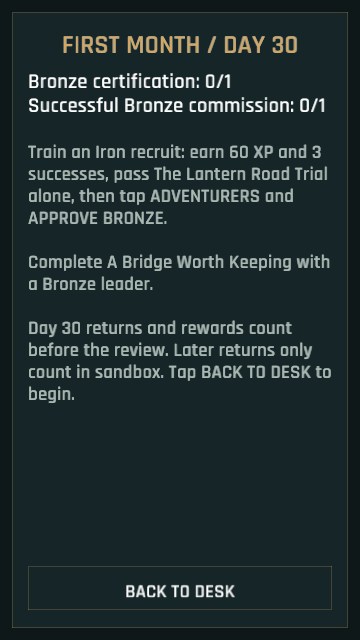
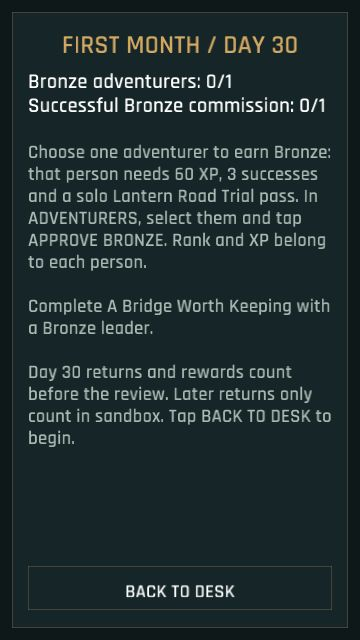
Each licence bears one adventurer's name (Phase 1 feedback and clarity)
The player reached the ending in about five minutes and understood the final
mission, but individual rank and optional services were unclear. Explain who
earns Bronze in the objectives, guidance and personal record. Label services
optional and compare infirmary recovery with ordinary rest.

Record the completed observation and keep the introductory target of one
Bronze adventurer and commission. The full demo's 30-45 minute target remains
unmet; later assignment and roster decisions must earn that extra playtime.

All 24 tests, clippy and the no-argument publisher pass. Published browser
checks at 360x640 verify the objective, record and optional-service layouts.

diff --git a/src/tutorial.rs b/src/tutorial.rs
@@ -48,14 +48,14 @@ impl Lesson {
 
     pub fn text(self, compact: bool) -> &'static str {
         match self {
-            Self::Welcome => "By day 30, certify one Bronze adventurer and complete A Bridge Worth Keeping. Day 30 returns count before head office reviews the branch.\n\nTap BACK TO DESK, then the D30 objective control to see your targets. MENU opens HELP whenever you need it.",
+            Self::Welcome => "By day 30, certify one Bronze adventurer and complete A Bridge Worth Keeping. Each adventurer earns their own rank and XP. Day 30 returns count before head office reviews the branch.\n\nTap BACK TO DESK, then the D30 objective control to see your targets. MENU opens HELP whenever you need it.",
             Self::Selection if compact => "Tap BACK TO DESK. Tap < or > to browse contracts, then CHOOSE PARTY. Tap adventurer names to select them. Selected names turn gold.\n\nStart with Mira Ashford on Cellar, Meet Sword. Matching classes help; injured or away staff cannot join.",
             Self::Selection => "Tap BACK TO DESK. Tap a contract in CONTRACT REGISTER, then tap adventurer names to select them. Selected names turn gold.\n\nStart with Mira Ashford on Cellar, Meet Sword. Matching classes help; injured or away staff cannot join.",
             Self::Dispatch => "Your party is selected. Check the readiness message, then tap BACK TO DESK and DISPATCH.\n\nDispatch sends the selected people away for the contract's listed duration. Work returning after day 30 cannot improve the review; it can finish in sandbox.",
             Self::Time => "The expedition is travelling. Tap BACK TO DESK, then NEXT DAY to advance one day. Repeat until the party returns.\n\nPeople staying at the guild rest while others travel. Returning expeditions receive their rewards before the day-30 review.",
             Self::Reports => "An expedition returned. Tap BACK TO DESK, then REPORTS to read what happened. Tap a NEW report to open it, then ALL REPORTS to read the next one.\n\nGold, experience and successful-contract credit are applied automatically. The report explains any medical leave.",
-            Self::Recovery => "Tap BACK TO DESK, then ADVENTURERS to inspect fatigue and medical leave. Leave tired or injured staff at home and tap NEXT DAY to recover.\n\nRest two days after a typical return. An injured adventurer cannot dispatch. GUILD SERVICES offers an infirmary once you can afford it.",
-            Self::Promotion => "Earn 60 XP and 3 successes, then pass The Lantern Road Trial with that candidate alone.\n\nTap BACK TO DESK, then ADVENTURERS, select the candidate and tap APPROVE BRONZE. Approval unlocks A Bridge Worth Keeping. Send a Bronze leader with support and return by day 30.",
+            Self::Recovery => "Tap BACK TO DESK, then ADVENTURERS to inspect fatigue and medical leave. Leave tired or injured staff at home and tap NEXT DAY to recover.\n\nRest two days after a typical return. An injured adventurer cannot dispatch. GUILD SERVICES offers optional faster recovery. No purchase is required for the review.",
+            Self::Promotion => "One adventurer must earn 60 XP and 3 successes, then pass The Lantern Road Trial alone. Their promotion changes only their own rank.\n\nTap BACK TO DESK, then ADVENTURERS, select the candidate and tap APPROVE BRONZE. Approval unlocks A Bridge Worth Keeping. Send a Bronze leader with support and return by day 30.",
             Self::Trial => "A candidate has 60 XP and 3 successes. Rest them at home with NEXT DAY until fatigue clears.\n\nTap BACK TO DESK, then CONTRACTS. Select The Lantern Road Trial, choose that candidate alone and tap DISPATCH. Tap NEXT DAY twice for the assessment. On compact screens, tap CHOOSE PARTY to select the candidate.",
         }
     }

diff --git a/src/ui/month.rs b/src/ui/month.rs
@@ -22,7 +22,7 @@ pub fn draw_month(g: &Game) -> Option<UiAction> {
         .map(|r| (r.certifications, r.commissions))
         .unwrap_or_else(|| g.guild.objective_counts(&g.contracts));
     paragraph(
-        &format!("Bronze certification: {certs}/1\nSuccessful Bronze commission: {commissions}/1"),
+        &format!("Bronze adventurers: {certs}/1\nSuccessful Bronze commission: {commissions}/1"),
         Rect::new(x + 16.0, y + 55.0, w - 32.0, 62.0),
         21.0,
         WHITE,
@@ -49,7 +49,7 @@ pub fn draw_month(g: &Game) -> Option<UiAction> {
             .join("\n");
         format!("{result}\n\nClosing treasury: {}g (opened with 80g; net {:+}g). Renown: {}.\n\n{careers}", r.gold, i64::from(r.gold) - 80, r.reputation)
     } else {
-        "Train an Iron recruit: earn 60 XP and 3 successes, pass The Lantern Road Trial alone, then tap ADVENTURERS and APPROVE BRONZE.\n\nComplete A Bridge Worth Keeping with a Bronze leader.\n\nDay 30 returns and rewards count before the review. Later returns only count in sandbox. Tap BACK TO DESK to begin.".into()
+        "Choose one adventurer to earn Bronze: that person needs 60 XP, 3 successes and a solo Lantern Road Trial pass. In ADVENTURERS, select them and tap APPROVE BRONZE. Rank and XP belong to each person.\n\nComplete A Bridge Worth Keeping with a Bronze leader.\n\nDay 30 returns and rewards count before the review. Later returns only count in sandbox. Tap BACK TO DESK to begin.".into()
     };
     paragraph(
         &body,

diff --git a/src/ui/help.rs b/src/ui/help.rs
@@ -32,7 +32,7 @@ pub fn draw_guidance(g: &Game, r: Rect) -> Option<UiAction> {
 
 fn tip(g: &Game, lesson: Lesson) -> &'static str {
     match lesson {
-        Lesson::Welcome => "Day 30 goal: one Bronze licence and commission. Tap D30 for details, or keep playing below.",
+        Lesson::Welcome => "By day 30: promote one adventurer to Bronze; complete a Bronze commission. Tap D30 for details.",
         Lesson::Selection if g.tab != 0 => "Tap CONTRACTS to choose an assignment. The outlined controls show the next step.",
         Lesson::Selection if g.choosing_party => "Tap Mira Ashford for the cellar job. Gold names join your party; tap again to remove.",
         Lesson::Selection => "Browse contracts. Tap CHOOSE PARTY, then an adventurer; gold names join the party.",
@@ -42,7 +42,7 @@ fn tip(g: &Game, lesson: Lesson) -> &'static str {
         Lesson::Reports => "Tap REPORTS to read every return. Each expedition has its own report and automatic rewards.",
         Lesson::Recovery => "Leave tired or injured people at home and tap NEXT DAY. Typical fatigue clears in two days.",
         Lesson::Trial => "Rest the eligible candidate. In CONTRACTS select The Lantern Road Trial; DISPATCH that person alone.",
-        Lesson::Promotion => "Tap ADVENTURERS, select the passed candidate, then APPROVE BRONZE. The Bronze commission is next.",
+        Lesson::Promotion => "Tap ADVENTURERS, select the passed candidate, then APPROVE BRONZE to promote that person.",
     }
 }
 

diff --git a/src/ui/services.rs b/src/ui/services.rs
@@ -9,11 +9,11 @@ pub fn draw_services(g: &Game, r: Rect) -> Option<UiAction> {
     let row_h = (r.h - 16.0) / 3.0;
     let q = &g.contracts[g.selected];
     let entries = [
-        ("Infirmary", "Recover 2 medical-leave days per day at the guild. Fatigue still needs rest.".to_owned(),
+        ("Infirmary (optional)", "Medical leave clears twice as fast at home: 2 days per day instead of 1. Fatigue still needs rest.".to_owned(),
             INFIRMARY_COST, g.guild.services.infirmary, Purchase::Infirmary),
-        ("Training yard", "Fully rested Iron recruits at the guild gain 5 XP daily, up to 60. Three quest successes are still required.".to_owned(),
+        ("Training yard (optional)", "Fully rested Iron recruits at the guild gain 5 XP daily, up to 60. Three quest successes are still required.".to_owned(),
             TRAINING_COST, g.guild.services.training_yard, Purchase::TrainingYard),
-        ("Scout the route", format!("{}: prepare the next dispatch. Choose another route in CONTRACTS. Trials forbid scouting.", q.title),
+        ("Scout route (optional)", format!("{}: prepare the next dispatch. Choose another route in CONTRACTS. Trials forbid scouting.", q.title),
             SCOUT_COST, g.guild.services.scouted.contains(&g.selected), Purchase::Scout(g.selected)),
     ];
     for (i, (title, description, cost, owned, purchase)) in entries.into_iter().enumerate() {

diff --git a/src/ui/dossier.rs b/src/ui/dossier.rs
@@ -49,11 +49,11 @@ pub fn draw_dossier(g: &Game, r: Rect) -> Option<UiAction> {
     let text = if a.bronze {
         "BRONZE CERTIFIED. Lead a party to North Bridge, or help your fellow recruits grow."
     } else if a.trial_passed {
-        "ASSESSMENT PASSED. Examiner Vale recommends promotion. Your signature is the final step."
+        "ASSESSMENT PASSED. APPROVE BRONZE promotes this adventurer. Each person earns their own rank."
     } else if a.eligible() {
         "ELIGIBLE. Rest, then select The Lantern Road Trial in CONTRACTS. Dispatch this candidate alone."
     } else {
-        "IRON LICENCE. Earn 60 XP and three successes, pass The Lantern Road Trial, then approve promotion here."
+        "PERSONAL RANK: IRON. This adventurer needs 60 XP, three successes and a solo trial pass. Approve their promotion here."
     };
     paragraph(
         text,

diff --git a/src/game.rs b/src/game.rs
@@ -347,7 +347,7 @@ impl Game {
 
     pub fn hint(&self) -> &str {
         if self.tab == 3 {
-            return "Invest your contract earnings here. Facilities are permanent; scouting prepares one dispatch on the contract you selected.";
+            return "Services are optional. You can pass the review without buying any. Facilities speed recovery or training; scouting helps one dispatch.";
         }
         if !self.guild.expeditions.is_empty() {
             return "The road takes time. Tap NEXT DAY to advance expeditions; resting staff recover.";

diff --git a/docs/playable_demo_plan.md b/docs/playable_demo_plan.md
@@ -1,8 +1,10 @@
 # Playable demo roadmap
 
-Status: Phase 1 software implemented and technically verified, 2026-09-04.
-Its unfamiliar-player observation and pacing validation remain open. Phases 2â€“6
-are proposed work. See [Phase 1 evidence](phase1_verification.md).
+Status: Phase 1 complete, 2026-09-04. The unfamiliar player reached the ending
+and reported about five minutes of gameplay. Follow-up warning and personal-rank
+clarity fixes are verified. Phases 2-6 remain proposed work; the full demo's
+30-45 minute pacing target is not met by this introductory slice.
+See [Phase 1 evidence](phase1_verification.md).
 
 ## Demo promise
 
@@ -44,10 +46,14 @@ character history are still demo work.
 **Player outcome:** a new player knows what the branch is working toward and can
 complete a coherent session with the existing roster and contracts.
 
-- [ ] Add a first-month objective panel and a head-office review on day 30. Start
+- [x] Add a first-month objective panel and a head-office review on day 30. Start
   with a provisional target of one Bronze certification and one successful
   Bronze commission; tune this against actual playthrough length.
-  The panel and review are implemented; player pacing evidence is still pending.
+  Observed completion is about five minutes. Retain one individually earned
+  Bronze certification and one commission as the introductory milestone: the
+  final mission was understood and completed. Raising this count alone would
+  repeat the same training loop. Meaningful assignment decisions and longer
+  pacing remain work for the later demo phases, not extra waiting in Phase 1.
 - [x] Introduce the desk through short contextual prompts covering selection,
   DISPATCH, NEXT DAY, return reports, recovery and APPROVE BRONZE. Every prompt
   names its visible control. Allow tutorial skip and later help access.
@@ -63,10 +69,12 @@ complete a coherent session with the existing roster and contracts.
 review and sandbox reloads, restart confirmation, browser click controls,
 Iron-to-Bronze progression, late returns, and 360x640 layouts.
 
-**Still open:** repeat the interrupted unfamiliar-player session using the
-[playtest protocol](phase1_playtest.md), record session duration and onboarding
-blockers, and tune the provisional target only if that evidence calls for it.
-Do not start Phase 2 before that gate is satisfied.
+**Observation gate satisfied:** after the first session's blockers were fixed,
+the player reached the ending. Follow-up feedback prompted a rested-idle warning
+and explicit per-adventurer rank wording. Services remain optional; no purchase
+is needed to pass. The five-minute observation is approximate, not a stopwatch
+measurement or proof of broad balance. The later demo still needs substantial
+playable decisions to reach its 30-45 minute target.
 
 **Exit gate:** a fresh guild can reach either review result, reload it, and use
 the completion controls with clicks/taps alone. The established Iron-to-Bronze
@@ -221,5 +229,6 @@ first. Preserve the complete session, competing assignments, recruitment,
 recoverable consequences, persistence and touch controls. Do not add a new system
 to compensate for a failed pacing or comprehension gate.
 
-**Next implementation:** Phase 1 only â€” first-month objective state, review
-resolution, contextual guidance and persistent completion/restart controls.
+**Next implementation:** Phase 2, when requested. Use the observed five-minute
+baseline to test competing useful assignments; preserve the completed Phase 1
+flow. Do not claim the full demo duration or force services into the review.

diff --git a/docs/phase1_verification.md b/docs/phase1_verification.md
@@ -108,17 +108,28 @@ Screenshots: browser_guidance_mobile.png and browser_reports_mobile.png;
 updated native ui_tutorial.png, ui_reports.png, ui_report.png and ui_gameplay.png.
 No physical touchscreen-device coverage is claimed.
 
-## Remaining gate and balance decision
+## Completed unfamiliar-player follow-up and pacing decision
 
-Repeat the interrupted session with the player to confirm the fixes remove
-the blockers, then record completion time and whether services create a
-useful choice. The current content is not evidence for a 30-minute session.
-Prices remain unchanged: the participant did not reach a situation where a
-facility was needed, so this observation does not establish a better price.
-Do not force service purchases or pad the month with waits to claim duration.
-The day-30 review target remains provisional; Phase 2 stays gated on the
-retest and a decision about achievable demo pacing.
+The user subsequently reported reaching the ending, with about five minutes
+of gameplay. The final mission's requirements were clear. Rank was not clear
+as an individual adventurer's progression; additional services still did not
+seem necessary. They requested a warning when rested adventurers are left idle
+before NEXT DAY. This is a reported approximate duration, not a timestamped
+measurement; review result, career dates and service purchases were not supplied.
 
+The human completion observation satisfies Phase 1's unfamiliar-player gate.
+The rank/objective text now explicitly assigns XP, successes and promotion to
+one person. Service titles identify optional purchases and the infirmary states
+its improvement over normal recovery. The warning is verified below.
+
+Keep one individual Bronze certification and one successful Bronze commission
+as the introductory target. The observed final mission worked; multiplying
+promotion requirements would repeat that loop without establishing management
+depth. The current slice is about five minutes by this observation. The full
+roadmap's 30-45 minute target remains unmet and must be tested through later
+assignment and roster decisions. Do not inflate playtime with waits or require
+services merely to spend surplus gold. Services' strategic value remains a
+balance question for those later phases; current prices are unchanged.
 
 ## Rested-staff warning verification
 
@@ -131,3 +142,13 @@ alone in the warning on day 2, cancellation retained day 2/134g, and explicit
 confirmation advanced to day 3/134g. See browser_idle_warning_mobile.png.
 All 24 Rust tests (22 unit and two integration) and the required no-argument
 publish.ps1 passed. Windows and WebGL packages deployed to the WSL preview.
+
+
+## Follow-up wording validation
+
+The final build passed the no-argument publisher and clippy with warnings as
+errors. Published-browser clicks at 360x640 verified the complete objective
+explanation, the individual Iron record, and all three optional-service rows.
+Updated ui_objectives.png and ui_mobile_services.png now come from this browser
+check, replacing captures of those same screens. These checks verify layout
+and controls, not a second human comprehension study or physical touch hardware.

diff --git a/README.md b/README.md
@@ -3,15 +3,17 @@
 A playable fantasy guild-management vertical slice based on [gdd.md](gdd.md).
 
 The [playable demo roadmap](docs/playable_demo_plan.md) sets out six gated phases
-from this slice to a complete first-month guild-management demo. The first
-unfamiliar-player session stopped on onboarding and report visibility issues;
-those blockers have been addressed, but a repeat observation is still needed.
-The roadmap's 30–45 minute target is not an established duration for this build.
+from this slice to a complete first-month guild-management demo. Phase 1 is
+complete: after initial blockers were fixed, the unfamiliar player reached the
+ending and reported about five minutes of gameplay. This introductory slice
+does not meet the full roadmap's 30-45 minute target.
 
 ## The first Bronze licence
 
 Open NEW GUILD, review a contract, select adventurers and tap DISPATCH. NEXT DAY
-advances expeditions and lets people at the guild recover. Returning reports
+advances expeditions and lets people at the guild recover. Fully rested,
+unassigned staff trigger a warning: BACK TO DESK preserves the day, while
+ADVANCE DAY confirms it. Returning reports
 record rewards, experience, fatigue and medical leave in a separate inbox entry
 for every expedition. REPORTS shows the unread count; reading never pays twice.
 Completed jobs leave the board permanently. Failed jobs remain available.
@@ -46,6 +48,7 @@ and relationship simulation remain beyond this milestone.
 
 ## Controls and persistence
 
+Services are optional; the review can be passed without purchasing any.
 GUILD SERVICES spends contract earnings on permanent facilities and preparation:
 the 100g infirmary clears two medical-leave days per day at home, and the 140g
 training yard grants fully rested Iron recruits 5 XP daily up to 60 XP. Training

diff --git a/gdd.md b/gdd.md
@@ -955,10 +955,17 @@ preserve a distinct three-job promotion route for every class without repeat
 rewards. Original six-slot saves are extended without changing existing slots.
 The trial is a per-candidate appointment and remains for candidates who need it.
 
-The player saw no need for the 100g infirmary in the interrupted session and
-estimated the small mission set would take about five minutes. This is evidence
-against claiming a 30-minute session, not a measured full playthrough. Facility
-prices remain provisional; no facility is mandatory. Further pacing and service
-value decisions require a repeat session after the blockers are fixed. Phase 2
-has not been broadly implemented: dated arrivals, expiry and stable instance
-identities remain on the roadmap.
+The follow-up player reached the ending and reported about five minutes of
+play. The final mission requirements were clear, but individual rank ownership
+was not. Objectives and guidance now specify one adventurer's own XP, successes
+and Bronze promotion. NEXT DAY warns by name about fully rested, uninjured staff
+at home; the player can return to assignments or deliberately advance.
+
+Services still appeared unnecessary, and remain explicitly optional. No facility
+is required for the review. The infirmary explains twice-normal medical recovery;
+prices remain unchanged. Phase 1's observation gate is complete, with an observed
+five-minute introductory slice. This does not satisfy the full demo's 30-45
+minute ambition. Keep one Bronze adventurer and one Bronze commission as its
+introductory goals; meaningful longer pacing belongs to later assignment/roster
+work. Phase 2's dated arrivals, expiry and stable instance identities remain
+unimplemented. Do not equate additional waits or required purchases with depth.

diff --git a/docs/phase1_playtest.md b/docs/phase1_playtest.md
@@ -1,8 +1,11 @@
 # Phase 1 unfamiliar-player observation
 
-Status: first unfamiliar-player feedback received; participant stopped before
-finishing due to blockers. Repeat the affected checks after the fixes.
-The agent's scripted browser run verifies fixes but does not replace the retest.
+Status: follow-up observation received. The player reached the ending and
+reported about five minutes of gameplay; final mission requirements were clear.
+Personal-rank clarity and rested-idle warnings were addressed afterward and
+technically verified. Phase 1's human observation gate is satisfied. The full
+30-45 minute demo pacing remains unproven. Evidence and limits are recorded in
+phase1_verification.md. Keep the protocol below for future milestone tests.
 
 Open the published preview at http://127.0.0.1/games/occupational_hazard/ on the
 host machine. The publisher deploys to the configured local WSL preview; it
@@ -27,7 +30,6 @@ Record:
 - Whether they can reload the result and use CONTINUE SANDBOX and RESTART.
 - One assignment decision they found difficult and one adventurer they remember.
 
-Have the observer supply notes in this task. Fix any observed onboarding
-blockers, repeat affected checks with the participant, and record the outcome
-in phase1_verification.md before opening Phase 2. The initial interrupted
-observation and its limits are recorded in phase1_verification.md.
+For future observations, supply notes in this task and record outcomes in
+phase1_verification.md. Specifically watch whether the new personal-rank wording
+and idle warning prevent the hesitations from the completed follow-up session.
